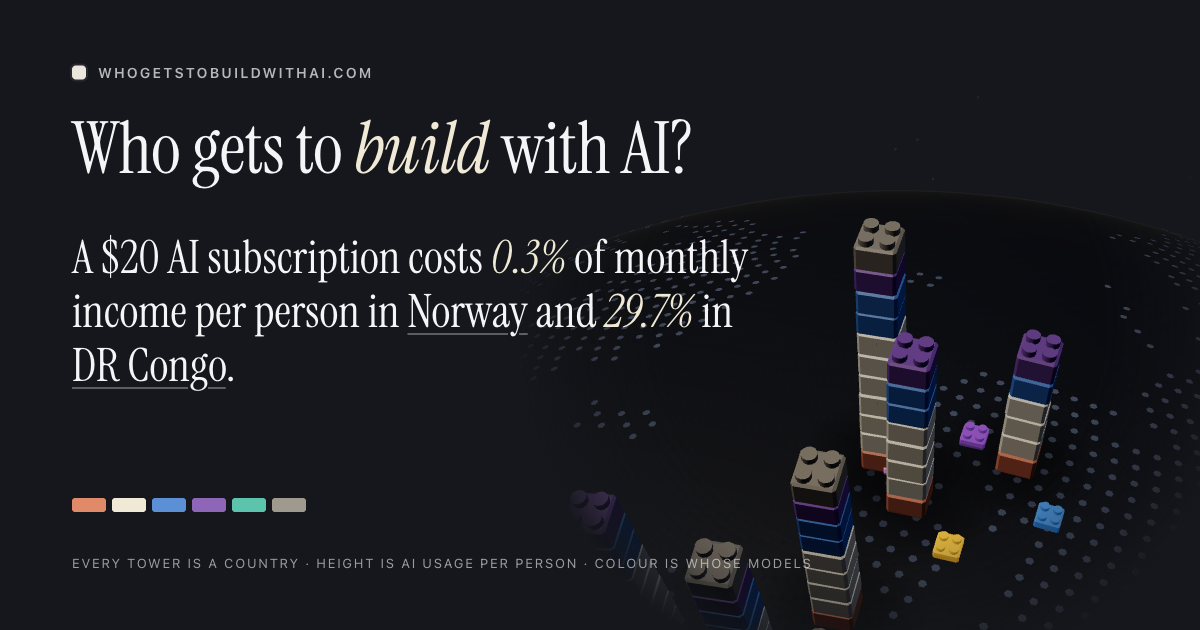
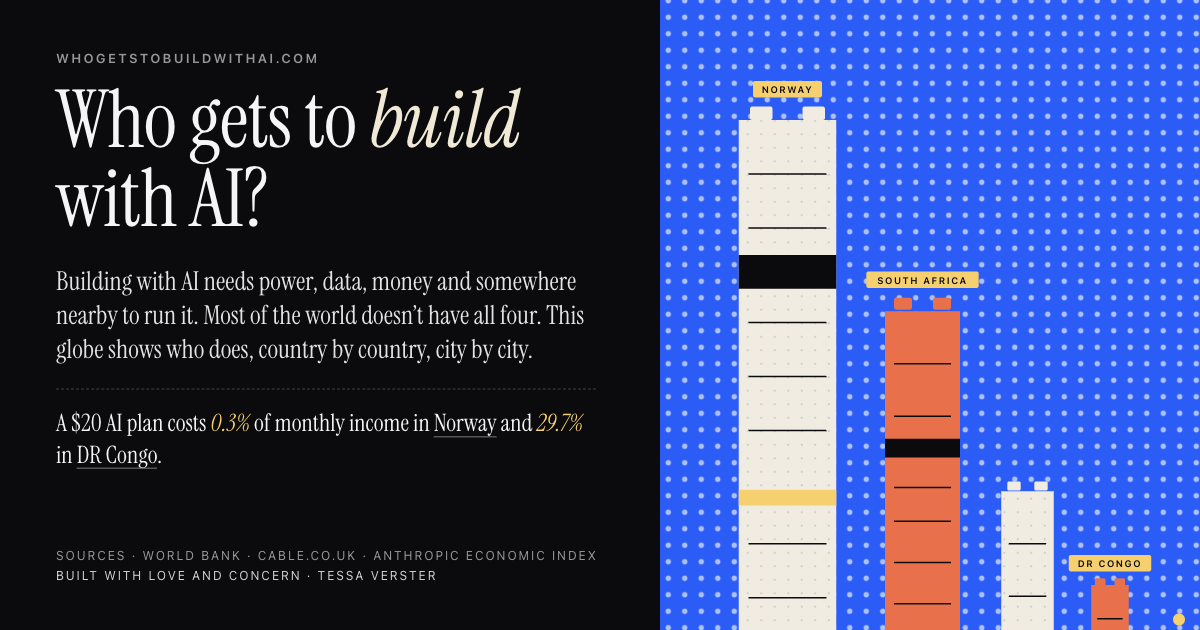
Redesign the intro modal, rebuild the share card from it, brighten the stars, nudge city towers aside
- Intro: two-column box, copy on the left (kicker, serif headline and body, yellow stat numbers, sentence-case CTA, sources + credit) and a flat illustration of the Norway / visitor's-country / DR Congo towers on a blue dot grid on the right (inline SVG #introArt; banner on phones). New copy throughout.
- og.png is now the same design; tools/render-og.mjs lifts the SVG out of index.html instead of screenshotting WebGL. Old thumbnail assets removed.
- Credit links (footer, panel note, intro byline) now point at Tessa's LinkedIn.
- Sky: stars in three sizes with four-point sparkles, bright enough to read.
- City towers that land on their country point (or on each other) slide sideways so they stand beside the tower instead of growing out of it.

diff --git a/styles.css b/styles.css
@@ -225,7 +225,7 @@
   #title h1,.ibox h2,.card .top h2,#v-card h2{font-family:var(--serif);font-weight:400;letter-spacing:-0.01em}
   #title h1 i,.ibox h2 i{font-style:italic;color:#efe9d6}
   .kicker,.byline{font-family:var(--sans);font-size:11px;letter-spacing:.14em;text-transform:uppercase;color:var(--muted)}
-  /* intro: a claim, one line of explanation, one call to action. Shown over #placeholder before the 3D scene is ready. */
+  /* intro: headline, the claim, how to read the globe, one call to action; a flat tower illustration beside it. Shown over #placeholder before the 3D scene is ready. */
   #placeholder{position:fixed;inset:0;z-index:1;pointer-events:none;background:var(--bg);transition:opacity .6s var(--ease)}
   #placeholder i{position:absolute;left:50%;top:50%;width:min(78vmin,760px);height:min(78vmin,760px);transform:translate(-50%,-50%);border-radius:50%;
     background:radial-gradient(circle,rgba(200,205,215,.26) 1.2px,transparent 1.9px) 0 0/12px 12px,#262a33;
@@ -235,32 +235,40 @@
   #intro{position:fixed;inset:0;z-index:20;display:flex;align-items:center;justify-content:center;overflow-y:auto;overscroll-behavior:contain;padding:12px 0;background:radial-gradient(ellipse at center,rgba(7,8,12,.55),rgba(7,8,12,.88));backdrop-filter:blur(2px);opacity:0;animation:introIn .6s var(--ease) .2s forwards;transition:opacity .4s var(--ease)}
   #intro.out{opacity:0!important;pointer-events:none}
   body.intro #title,body.intro #hint{opacity:0;transition:none}
-  .ibox{position:relative;max-width:980px;width:calc(100% - 48px);margin:auto;padding:34px 40px 26px;padding-right:calc(40px + 300px);border:1px solid rgba(255,255,255,.16);border-radius:10px;background:#0b0b0d;box-shadow:0 30px 80px rgba(0,0,0,.6);text-align:left;overflow:hidden}
-  /* a real view of the towers, from the exhibit (rendered by tools/render-og.mjs), bleeding off the right edge */
-  .ibox .thumb{position:absolute;right:-70px;top:-40px;width:420px;height:420px;margin:0;pointer-events:none;opacity:0;animation:rise .8s var(--ease) .5s forwards;-webkit-mask:radial-gradient(circle at 50% 50%,#000 0 40%,rgba(0,0,0,.6) 58%,transparent 70%);mask:radial-gradient(circle at 50% 50%,#000 0 40%,rgba(0,0,0,.6) 58%,transparent 70%)}
-  .ibox .thumb img{width:100%;height:100%;object-fit:cover;display:block}
-  .ibox h2{font-size:clamp(40px,5.6vw,68px);line-height:.98;opacity:0;animation:rise .6s var(--ease) .4s forwards;position:relative}
-  .ibox .hero{font-family:var(--sans);font-weight:500;font-size:clamp(20px,2.2vw,28px);line-height:1.25;letter-spacing:-0.015em;margin:20px 0 0;color:var(--text);overflow-wrap:anywhere;opacity:0;animation:rise .6s var(--ease) .7s forwards}
-  .ibox .hero b{font-weight:600;font-style:normal;color:#efe9d6}
+  /* the box: copy on the left, a flat illustration of three towers on a blue dot grid on the right (inline SVG #introArt, reused for og.png) */
+  .ibox{position:relative;max-width:1180px;width:calc(100% - 48px);margin:auto;display:grid;grid-template-columns:minmax(0,1.08fr) minmax(0,1fr);border:1px solid rgba(255,255,255,.16);border-radius:10px;background:#0b0b0d;box-shadow:0 30px 80px rgba(0,0,0,.6);text-align:left;overflow:hidden}
+  .ibox .copy{padding:44px 48px 34px;min-width:0}
+  .ibox .art{position:relative;background:#2b5cf6;min-height:460px;opacity:0;animation:introIn .8s var(--ease) .3s forwards}
+  .ibox .art svg{position:absolute;inset:0;width:100%;height:100%;display:block}
+  .ibox .kicker{margin-bottom:16px;opacity:0;animation:rise .5s var(--ease) .3s forwards}
+  .ibox h2{font-size:clamp(40px,5.2vw,74px);line-height:.98;opacity:0;animation:rise .6s var(--ease) .4s forwards;position:relative}
+  .ibox .lead{font-family:var(--serif);font-size:clamp(18px,1.55vw,23px);color:rgba(245,245,247,.92);line-height:1.35;margin:22px 0 0;max-width:560px;opacity:0;animation:rise .6s var(--ease) .8s forwards}
+  .ibox .lead.open{animation-delay:.55s}
+  .ibox .lead.outro{margin-top:14px;animation-delay:1s}
+  .ibox .hero{font-family:var(--serif);font-weight:400;font-size:clamp(19px,1.7vw,25px);line-height:1.3;letter-spacing:0;margin:18px 0 0;padding:18px 0;border-top:var(--rule);border-bottom:var(--rule);color:var(--text);overflow-wrap:anywhere;opacity:0;animation:rise .6s var(--ease) .7s forwards}
+  .ibox .hero b{font-weight:400;font-style:italic;color:#f6cf6f}
   .ibox .hero a{color:var(--text);text-decoration:underline;text-decoration-color:rgba(255,255,255,.35);text-underline-offset:3px;text-decoration-thickness:1.5px;transition:text-decoration-color .2s}
   .ibox .hero a:hover{text-decoration-color:var(--text)}
-  .ibox .hero .src{font-family:var(--sans);font-size:10px;letter-spacing:.14em;text-transform:uppercase;color:var(--muted);text-decoration:none;border:1px solid rgba(255,255,255,.2);border-radius:3px;padding:3px 7px;vertical-align:middle;margin-left:6px;white-space:nowrap}
-  .ibox .hero .src:hover{color:var(--text);border-color:rgba(255,255,255,.3)}
-  .ibox .lead{font-family:var(--sans);font-size:clamp(14px,1.2vw,16px);color:rgba(245,245,247,.68);line-height:1.4;margin:18px 0 22px;padding-top:18px;border-top:var(--rule);max-width:600px;opacity:0;animation:rise .6s var(--ease) 1s forwards}
-  .ibox .cta{display:flex;align-items:center;gap:14px;flex-wrap:wrap;opacity:0;animation:rise .5s var(--ease) 1.3s forwards}
-  #introGo{padding:12px 22px;font-size:12px;letter-spacing:.14em;text-transform:uppercase;font-weight:600;border-radius:4px;background:#efe9d6;color:#0b0b0d;border-color:#efe9d6}
+  .ibox .hero .src{display:inline;font-family:var(--sans);font-weight:400;font-size:.6em;color:var(--muted);text-decoration:underline;text-decoration-color:rgba(255,255,255,.3);text-underline-offset:3px;margin-left:4px;white-space:nowrap;vertical-align:baseline}
+  .ibox .hero .src:hover{color:var(--text);text-decoration-color:var(--text)}
+  .ibox .cta{display:flex;align-items:center;gap:18px;flex-wrap:wrap;margin-top:34px;opacity:0;animation:rise .5s var(--ease) 1.2s forwards}
+  #introGo{padding:14px 26px;font-size:15px;letter-spacing:0;text-transform:none;font-weight:600;border-radius:4px;background:#f0ece2;color:#0b0b0d;border-color:#f0ece2}
   #introGo:hover{background:#fff}
-  .btn.ghost{background:transparent;border:0;color:var(--muted);padding:11px 8px;font-size:12px;letter-spacing:.14em;text-transform:uppercase}
+  .btn.ghost{background:transparent;border:0;color:var(--muted);padding:11px 4px;font-size:15px;letter-spacing:0;text-transform:none}
   .btn.ghost:hover{color:var(--text);background:transparent}
-  .ibox .byline{display:flex;justify-content:space-between;gap:12px;flex-wrap:wrap;margin-top:24px;padding-top:12px;border-top:var(--rule);opacity:0;animation:rise .5s var(--ease) 1.5s forwards}
+  .ibox .byline{display:block;margin-top:28px;line-height:1.5;opacity:0;animation:rise .5s var(--ease) 1.4s forwards}
+  .ibox .byline span{display:block}
+  .ibox .byline span+span{margin-top:8px}
+  .ibox .byline a{color:var(--text);text-decoration:underline;text-decoration-color:rgba(255,255,255,.3);text-underline-offset:3px}
+  .ibox .byline a:hover{text-decoration-color:var(--text)}
   @keyframes introIn{to{opacity:1}}
   @keyframes shrink{to{transform:scaleX(0)}}
   @keyframes rise{from{opacity:0;transform:translateY(10px)}to{opacity:1;transform:none}}
-  @media (max-width:900px){ .ibox{padding-right:40px} .ibox .thumb{position:relative;right:auto;top:auto;width:calc(100% + 80px);height:170px;margin:-34px -40px 10px;-webkit-mask:linear-gradient(#000 55%,transparent);mask:linear-gradient(#000 55%,transparent)} .ibox .thumb img{object-position:50% 40%} }
-  @media (max-width:700px){ .ibox{padding:22px 22px 22px;width:calc(100% - 28px)} .ibox .thumb{width:calc(100% + 44px);margin:-22px -22px 8px;height:150px} .ibox .lead{margin:14px 0 20px;padding-top:14px} }
-  @media (max-width:380px){ .ibox{padding:18px 16px 18px;width:calc(100% - 20px)} .ibox h2{font-size:36px} .ibox .hero{font-size:20px} .ibox .cta{gap:6px} #introGo{padding:10px 16px} .ibox .byline span:last-child{display:none} }
-  @media (max-height:520px){ #intro{padding:8px 0} .ibox{width:calc(100% - 24px);padding:14px 22px 12px} .ibox .kicker{margin-bottom:10px;padding-bottom:8px} .ibox h2{font-size:30px} .ibox .hero{font-size:18px;margin-top:8px} .ibox .lead{font-size:14px;margin:8px 0 12px;padding-top:8px} .ibox .byline{margin-top:10px} }
-  @media (prefers-reduced-motion:reduce){ #intro,.ibox .kicker,.ibox h2,.ibox .hero,.ibox .lead,.ibox .cta,.ibox .byline{animation:none;opacity:1} .ibar{display:none} }
+  @media (max-width:900px){ .ibox{grid-template-columns:1fr} .ibox .art{order:-1;min-height:0;height:230px} .ibox .copy{padding:26px 28px 26px} .ibox .lead{font-size:18px} .ibox .hero{font-size:20px} }
+  @media (max-width:700px){ .ibox{width:calc(100% - 28px)} .ibox .copy{padding:22px 22px 22px} .ibox .art{height:200px} .ibox .lead{margin-top:14px} .ibox .hero{margin-top:14px;padding:14px 0} .ibox .cta{margin-top:24px} }
+  @media (max-width:380px){ .ibox{width:calc(100% - 20px)} .ibox .copy{padding:18px 16px 18px} .ibox h2{font-size:36px} .ibox .lead{font-size:17px} .ibox .hero{font-size:19px} .ibox .cta{gap:6px} #introGo{padding:11px 18px;font-size:14px} .btn.ghost{font-size:14px} }
+  @media (max-height:520px){ #intro{padding:8px 0} .ibox{width:calc(100% - 24px)} .ibox .copy{padding:14px 22px 12px} .ibox .art{min-height:0} .ibox .kicker{margin-bottom:8px} .ibox h2{font-size:30px} .ibox .hero{font-size:17px;margin-top:8px;padding:8px 0} .ibox .lead{font-size:16px;margin-top:8px} .ibox .cta{margin-top:14px} .ibox .byline{margin-top:10px} }
+  @media (prefers-reduced-motion:reduce){ #intro,.ibox .kicker,.ibox h2,.ibox .hero,.ibox .lead,.ibox .cta,.ibox .byline,.ibox .art{animation:none;opacity:1} .ibar{display:none} }
   /* tooltip */
   /* personalised strip at the top of the visitor's own country card; .est is the shared "modelled estimate" styling (methodology panel uses it too) */
   .card .mine{margin:0 0 14px;padding:12px 14px;border-radius:14px;background:var(--fill);border:1px solid var(--line);font-size:14px;line-height:1.45;color:var(--text)}

diff --git a/index.html b/index.html
@@ -17,7 +17,7 @@
 <meta property="og:image" content="https://whogetstobuildwithai.com/og.png">
 <meta property="og:image:width" content="1200">
 <meta property="og:image:height" content="630">
-<meta property="og:image:alt" content="Who gets to build with AI? The Norway tower on the Lego globe: a $20 AI subscription costs 0.3% of monthly income per person in Norway and 29.7% in DR Congo.">
+<meta property="og:image:alt" content="Who gets to build with AI? Building with AI needs power, data, money and somewhere nearby to run it. Most of the world doesn’t have all four. Towers for Norway, South Africa and DR Congo.">
 <meta name="twitter:card" content="summary_large_image">
 <meta name="twitter:title" content="Who gets to build with AI?">
 <meta name="twitter:description" content="A Lego globe of AI access. Every tower is a country: height is AI usage per person, colour is whose models people use.">
@@ -44,7 +44,7 @@
   <button id="tickerShow" title="Show counter (T)">Show prompt counter</button>
 </div>
 <div id="hint">drag to rotate · right-drag or shift-drag to move · scroll to zoom · click a tower or data centre</div>
-<footer id="credit">Built with love and concern · <a href="https://github.com/TessLeighVerster" target="_blank" rel="noopener">Tessa Verster<svg viewBox="0 0 16 16" aria-hidden="true"><path fill="currentColor" d="M8 0C3.58 0 0 3.58 0 8c0 3.54 2.29 6.53 5.47 7.59.4.07.55-.17.55-.38 0-.19-.01-.82-.01-1.49-2.01.37-2.53-.49-2.69-.94-.09-.23-.48-.94-.82-1.13-.28-.15-.68-.52-.01-.53.63-.01 1.08.58 1.23.82.72 1.21 1.87.87 2.33.66.07-.52.28-.87.51-1.07-1.78-.2-3.64-.89-3.64-3.95 0-.87.31-1.59.82-2.15-.08-.2-.36-1.02.08-2.12 0 0 .67-.21 2.2.82.64-.18 1.32-.27 2-.27.68 0 1.36.09 2 .27 1.53-1.04 2.2-.82 2.2-.82.44 1.1.16 1.92.08 2.12.51.56.82 1.27.82 2.15 0 3.07-1.87 3.75-3.65 3.95.29.25.54.73.54 1.48 0 1.07-.01 1.93-.01 2.2 0 .21.15.46.55.38A8.013 8.013 0 0 0 16 8c0-4.42-3.58-8-8-8z"/></svg></a></footer>
+<footer id="credit">Built with love and concern · <a href="https://www.linkedin.com/in/tessa-verster/" target="_blank" rel="noopener">Tessa Verster</a></footer>
 
 <div id="legend">
   <div><h4>Model provider</h4><ul id="lg-prov"></ul></div>
@@ -127,7 +127,7 @@
     <div class="ph"><span id="pinsTitle">Pinned · same scale</span><button id="clearPins">clear</button></div>
     <svg id="pinsvg" viewBox="0 0 380 170" preserveAspectRatio="xMidYMax meet"></svg>
   </div>
-  <div class="note">Figures are illustrative estimates modelled from public sources, not live telemetry.<span class="credit-sm"> Built with love and concern · <a href="https://github.com/TessLeighVerster" target="_blank" rel="noopener">Tessa Verster</a></span></div>
+  <div class="note">Figures are illustrative estimates modelled from public sources, not live telemetry.<span class="credit-sm"> Built with love and concern · <a href="https://www.linkedin.com/in/tessa-verster/" target="_blank" rel="noopener">Tessa Verster</a></span></div>
 </aside>
 
 <div id="arcLabels" aria-hidden="true"></div>
@@ -137,12 +137,42 @@
 
 <div id="intro" role="dialog" aria-label="Welcome">
   <div class="ibox">
-    <figure class="thumb" aria-hidden="true"><img src="assets/intro-towers.webp" width="720" height="720" alt="" loading="eager" decoding="async"></figure>
-    <h2>Who gets to <i>build</i> with AI?</h2>
-    <p class="hero" id="heroStat">A $20 AI subscription costs <b>0.3%</b> of monthly income per person in <a href="?country=NO" data-iso="NO">Norway</a> and <b>29.7%</b> in <a href="?country=CD" data-iso="CD">DR Congo</a>. <a class="src" id="heroSrc" href="?panel=methodology" title="How this is worked out">source</a></p>
-    <p class="lead">Every tower is a country. Height is how much people there use AI. Colour is whose models they're using. Glowing bricks are data centres.</p>
-    <div class="cta"><button class="btn primary" id="introGo">See where you stand →</button><button class="btn ghost" id="introExplore">or explore the globe</button></div>
-    <div class="byline"><span>Sources</span><span>World Bank · Cable.co.uk · Anthropic Economic Index</span></div>
+    <div class="copy">
+      <div class="kicker">whogetstobuildwithai.com</div>
+      <h2>Who gets to <i>build</i> with AI?</h2>
+      <p class="lead open">Building with AI needs power, data, money and somewhere nearby to run it. Most of the world doesn’t have all four. This globe shows who does, country by country, city by city.</p>
+      <p class="hero" id="heroStat">A $20 AI plan costs <b>0.3%</b> of monthly income in <a href="?country=NO" data-iso="NO">Norway</a> and <b>29.7%</b> in <a href="?country=CD" data-iso="CD">DR Congo</a>. <a class="src" id="heroSrc" href="?panel=methodology">How this is measured</a></p>
+      <p class="lead">Every tower is a country. Its height is how much people there use AI. Its colours are whose models they use. Glowing bricks are data centres.</p>
+      <p class="lead outro">Explore, be curious, ask questions, and share what you find.</p>
+      <div class="cta"><button class="btn primary" id="introGo">See where you stand →</button><button class="btn ghost" id="introExplore">or explore the globe</button></div>
+      <div class="byline"><span>Sources · World Bank · Cable.co.uk · Anthropic Economic Index</span><span>Built with love and concern · <a href="https://www.linkedin.com/in/tessa-verster/" target="_blank" rel="noopener">Tessa Verster</a></span></div>
+    </div>
+    <div class="art"><svg id="introArt" viewBox="0 0 720 850" preserveAspectRatio="xMidYMax slice" aria-hidden="true" focusable="false">
+      <defs>
+        <pattern id="iaDots" width="22" height="22" patternUnits="userSpaceOnUse"><circle cx="11" cy="11" r="3.6" fill="#fff" fill-opacity=".62"/></pattern>
+        <pattern id="iaGrain" width="18" height="18" patternUnits="userSpaceOnUse"><circle cx="9" cy="9" r="1.4" fill="#0b0b0d" fill-opacity=".14"/></pattern>
+      </defs>
+      <rect width="720" height="850" fill="#2b5cf6"/><rect width="720" height="850" fill="url(#iaDots)"/>
+      <g font-family="-apple-system,BlinkMacSystemFont,'Segoe UI',Inter,Roboto,Helvetica,Arial,sans-serif" font-size="12.5" font-weight="600" letter-spacing="2.2" fill="#0b0b0d">
+        <rect x="124" y="118" width="92" height="22" rx="3" fill="#f6cf6f"/><text x="170" y="134" text-anchor="middle">NORWAY</text>
+        <rect x="120" y="152" width="30" height="18" rx="3" fill="#f0ece2"/><rect x="190" y="152" width="30" height="18" rx="3" fill="#f0ece2"/>
+        <rect x="105" y="170" width="130" height="680" fill="#f0ece2"/><rect x="105" y="170" width="130" height="680" fill="url(#iaGrain)"/>
+        <path d="M118 242h104M118 314h104M118 440h104M118 512h104M118 584h104M118 735h104M118 807h104" stroke="#0b0b0d" stroke-width="2"/>
+        <rect x="105" y="350" width="130" height="45" fill="#0b0b0d"/><rect x="105" y="663" width="130" height="21" fill="#f6cf6f"/>
+        <rect id="introArtMidBg" x="275" y="372" width="150" height="22" rx="3" fill="#f6cf6f"/><text id="introArtMid" x="350" y="388" text-anchor="middle">SOUTH AFRICA</text>
+        <rect x="312" y="407" width="24" height="16" rx="3" fill="#e8714b"/><rect x="364" y="407" width="24" height="16" rx="3" fill="#e8714b"/>
+        <rect x="300" y="425" width="100" height="425" fill="#e8714b"/>
+        <path d="M312 495h76M312 565h76M312 660h76M312 705h76M312 760h76M312 815h76" stroke="#0b0b0d" stroke-width="2"/>
+        <rect x="300" y="595" width="100" height="25" fill="#0b0b0d"/>
+        <rect x="463" y="652" width="18" height="12" rx="2" fill="#f0ece2"/><rect x="499" y="652" width="18" height="12" rx="2" fill="#f0ece2"/>
+        <rect x="455" y="665" width="70" height="185" fill="#f0ece2"/><rect x="455" y="665" width="70" height="185" fill="url(#iaGrain)"/>
+        <path d="M465 735h50M465 805h50" stroke="#0b0b0d" stroke-width="2"/>
+        <rect x="545" y="750" width="110" height="22" rx="3" fill="#f6cf6f"/><text x="600" y="766" text-anchor="middle">DR CONGO</text>
+        <rect x="580" y="781" width="14" height="10" rx="2" fill="#e8714b"/><rect x="606" y="781" width="14" height="10" rx="2" fill="#e8714b"/>
+        <rect x="575" y="790" width="50" height="60" fill="#e8714b"/><path d="M583 835h34" stroke="#0b0b0d" stroke-width="2"/>
+        <circle cx="692" cy="836" r="8" fill="#f6cf6f"/>
+      </g>
+    </svg></div>
   </div>
 </div>
 

diff --git a/js/scene.js b/js/scene.js
@@ -153,13 +153,20 @@ const studTex = canvasTexture(512, (g, s) => { g.fillStyle = "#b4b4b4"; g.fillRe
     g.fillStyle = grd; g.beginPath(); g.arc(cx, cy, r, 0, Math.PI*2); g.fill(); } }, [48, 24]);
 const discTex = canvasTexture(64, (g, s) => { const grd = g.createRadialGradient(s/2, s/2, 0, s/2, s/2, s/2); grd.addColorStop(0, "rgba(255,255,255,1)"); grd.addColorStop(0.55, "rgba(255,255,255,0.55)"); grd.addColorStop(1, "rgba(255,255,255,0)"); g.fillStyle = grd; g.fillRect(0, 0, s, s); });
 
-/* sky: a sparse field of faint stars and a soft milky-way band, two Points draw calls, generated once with a seeded PRNG */
+/* sky: a field of stars in three sizes (the largest as four-point sparkles) and a soft milky-way band, five Points draw calls, generated once with a seeded PRNG */
 {
   const starTex = canvasTexture(32, (g, sz) => { const grd = g.createRadialGradient(sz/2, sz/2, 0, sz/2, sz/2, sz/2); grd.addColorStop(0, "rgba(255,255,255,1)"); grd.addColorStop(0.4, "rgba(255,255,255,0.55)"); grd.addColorStop(1, "rgba(255,255,255,0)"); g.fillStyle = grd; g.fillRect(0, 0, sz, sz); });
   starTex.wrapS = starTex.wrapT = THREE.ClampToEdgeWrapping;
+  /* four-point sparkle for the handful of bright stars: a soft core plus two thin tapered spikes */
+  const sparkTex = canvasTexture(128, (g, sz) => {
+    const c = sz/2, core = g.createRadialGradient(c, c, 0, c, c, c*0.22); core.addColorStop(0, "rgba(255,255,255,1)"); core.addColorStop(0.5, "rgba(255,255,255,0.6)"); core.addColorStop(1, "rgba(255,255,255,0)");
+    g.fillStyle = core; g.fillRect(0, 0, sz, sz);
+    for (const [x0,y0,x1,y1] of [[0,c,sz,c],[c,0,c,sz]]){ const lg = g.createLinearGradient(x0,y0,x1,y1); lg.addColorStop(0,"rgba(255,255,255,0)"); lg.addColorStop(0.3,"rgba(255,255,255,0.5)"); lg.addColorStop(0.5,"rgba(255,255,255,1)"); lg.addColorStop(0.7,"rgba(255,255,255,0.5)"); lg.addColorStop(1,"rgba(255,255,255,0)"); g.strokeStyle = lg; g.lineWidth = 3; g.beginPath(); g.moveTo(x0,y0); g.lineTo(x1,y1); g.stroke(); }
+  });
+  sparkTex.wrapS = sparkTex.wrapT = THREE.ClampToEdgeWrapping;
   let seed = 19; const rnd = () => (seed = (seed*48271)%2147483647)/2147483647;
   const gauss = () => (rnd()+rnd()+rnd()+rnd()-2)*0.86;
-  const field = (N, bandSigma, size, opacity, color) => {
+  const field = (N, bandSigma, size, opacity, color, map = starTex) => {
     const pos = new Float32Array(N*3), v = new THREE.Vector3(), tilt = new THREE.Quaternion().setFromEuler(new THREE.Euler(0.95, 0.3, 0.4));
     for (let i = 0; i < N; i++){
       if (bandSigma){ const a = rnd()*Math.PI*2, lat = gauss()*bandSigma; v.set(Math.cos(a)*Math.cos(lat), Math.sin(lat), Math.sin(a)*Math.cos(lat)).applyQuaternion(tilt); }
@@ -167,9 +174,11 @@ const discTex = canvasTexture(64, (g, s) => { const grd = g.createRadialGradient
       v.multiplyScalar(30 + rnd()*8); pos.set([v.x, v.y, v.z], i*3);
     }
     const g = new THREE.BufferGeometry(); g.setAttribute("position", new THREE.BufferAttribute(pos, 3));
-    const m = new THREE.Points(g, new THREE.PointsMaterial({color, size, sizeAttenuation:true, map:starTex, transparent:true, opacity, depthWrite:false})); m.frustumCulled = false; m.renderOrder = -1; return m;
+    const m = new THREE.Points(g, new THREE.PointsMaterial({color, size, sizeAttenuation:true, map, transparent:true, opacity, depthWrite:false})); m.frustumCulled = false; m.renderOrder = -1; return m;
   };
-  scene.add(field(1600, 0, 0.12, 0.38, 0xd8dde8));          // stars
+  scene.add(field(1800, 0, 0.4, 0.8, 0xe8ecf4));          // stars
+  scene.add(field(400, 0, 0.85, 0.85, 0xffffff));            // a few larger, brighter ones
+  scene.add(field(80, 0, 2.6, 0.85, 0xffffff, sparkTex));  // sparse four-point sparkles
   scene.add(field(5000, 0.16, 0.22, 0.09, 0xcfd6e6));       // the band: many faint, slightly larger points along a tilted great circle
   scene.add(field(900, 0.07, 0.10, 0.3, 0xe8e4d8));         // brighter core of the band
 }
@@ -546,6 +555,25 @@ function cityObjects(c){
     usageIndex: Math.round(c.usageIndex*rel*10)/10, activeUsers: pop*perCap*rel, providerShare:c.providerShare })).sort((a,b)=>b.usageIndex-a.usageIndex);
   return c._cityObjs;
 }
+/* a city that sits on its country's own point (a capital, a city state) would grow out of the middle of the country
+   tower; slide it sideways until it stands beside the tower, and beside any city tower already placed this round */
+const _nd = new THREE.Vector3(), _ne = new THREE.Vector3();
+function nudgeBeside(t, countryTower, placed){
+  const others = [countryTower, ...placed.map(city => city._tower).filter(Boolean)];
+  for (let pass = 0; pass < 4; pass++){
+    let moved = false;
+    for (const o of others){
+      if (!o) continue;
+      const minSep = (o.dims.w + CITY_BRICK.w) * 0.5 * 1.35;
+      _nd.subVectors(t.pos, o.pos); const d = _nd.length();
+      if (d >= minSep) continue;
+      if (d < 1e-5){ _ne.set(0,1,0); _nd.crossVectors(_ne, o.normal); if (_nd.lengthSq() < 1e-6) _nd.set(1,0,0); _nd.normalize(); }   // dead centre: step east
+      else { _nd.multiplyScalar(1/d); _nd.addScaledVector(o.normal, -_nd.dot(o.normal)).normalize(); }                                   // keep the step tangent to the plate
+      t.pos.copy(o.pos).addScaledVector(_nd, minSep).normalize().multiplyScalar(R); moved = true;
+    }
+    if (!moved) break;
+  }
+}
 function showCities(c){
   const now = performance.now(), list = c ? cityObjects(c).slice(0, CITY_SLOTS) : [];
   cityTowers.forEach((t,i) => {
@@ -553,7 +581,7 @@ function showCities(c){
     const city = list[i]; t.ref = city || null; t.cityOf = c || null;
     if (!city){ t.n = 0; return; }
     t.n = Math.max(1, Math.round(Math.min(120, city.usageIndex)/100*MAX_BRICKS));
-    latLonToVec(city.lat, city.lon, R, t.pos); t.normal.copy(t.pos).normalize(); t.quat.setFromUnitVectors(_cup, t.normal);
+    latLonToVec(city.lat, city.lon, R, t.pos); nudgeBeside(t, c._tower, list.slice(0, i)); t.normal.copy(t.pos).normalize(); t.quat.setFromUnitVectors(_cup, t.normal);
     const o = CITY_BRICK.w*0.25; [[-o,-o],[o,-o],[-o,o],[o,o]].forEach(([x,z],j) => t.studOffsets[j].copy(_ctmp.set(x,0,z).applyQuaternion(t.quat)));
     t.colors = brickColors(c, t.n); city._tower = t;
     t.colors.forEach((hex,k) => { const idx = t.brickStart+k; bricks.setColorAt(idx, _c.setHex(hex)); for (let j=0;j<4;j++) studs.setColorAt(idx*4+j, _c); });

diff --git a/tools/og-template.html b/tools/og-template.html
@@ -5,38 +5,38 @@
 <title>OG image template</title>
 <link rel="stylesheet" href="https://fonts.googleapis.com/css2?family=Instrument+Serif:ital@0;1&display=swap">
 <style>
-  /* 1200×630 link-preview card. Rendered to /og.png by tools/render-og.mjs; edit HERO_STAT in the script block below. */
-  html,body{margin:0;width:1200px;height:630px;overflow:hidden;background:#15171c;color:#f5f5f7;font-family:-apple-system,BlinkMacSystemFont,"Segoe UI",Inter,Roboto,Helvetica,Arial,sans-serif;-webkit-font-smoothing:antialiased}
-  #card{position:relative;width:1200px;height:630px}
-  #tower{position:absolute;right:-40px;top:-40px;width:720px;height:720px;-webkit-mask:radial-gradient(circle at 50% 50%,#000 0 44%,rgba(0,0,0,.6) 60%,transparent 72%);mask:radial-gradient(circle at 50% 50%,#000 0 44%,rgba(0,0,0,.6) 60%,transparent 72%)}
-  #tower img{width:100%;height:100%;object-fit:cover;display:block}
-  .wordmark{position:absolute;left:72px;top:64px;font-size:14px;font-weight:600;letter-spacing:.16em;text-transform:uppercase;color:rgba(245,245,247,.72);display:flex;align-items:center;gap:12px}
-  .wordmark i{display:inline-block;width:14px;height:14px;border-radius:4px;background:#ece7dc;box-shadow:0 0 0 2px rgba(255,255,255,.08)}
-  .title{position:absolute;left:72px;top:112px;font-family:"Instrument Serif",Georgia,serif;font-size:72px;font-weight:400;letter-spacing:-.01em;line-height:1}
+  /* 1200×630 link-preview card, the same design as the intro modal. Rendered to /og.png by tools/render-og.mjs, which injects
+     the #introArt SVG from index.html into .art so the illustration is never duplicated. */
+  html,body{margin:0;width:1200px;height:630px;overflow:hidden;background:#0b0b0d;color:#f5f5f7;font-family:-apple-system,BlinkMacSystemFont,"Segoe UI",Inter,Roboto,Helvetica,Arial,sans-serif;-webkit-font-smoothing:antialiased}
+  #card{position:relative;width:1200px;height:630px;display:grid;grid-template-columns:660px 540px}
+  .copy{position:relative;padding:50px 56px 0}
+  .kicker{font-size:13px;font-weight:600;letter-spacing:.18em;text-transform:uppercase;color:rgba(245,245,247,.6)}
+  .title{font-family:"Instrument Serif",Georgia,serif;font-size:80px;font-weight:400;letter-spacing:-.01em;line-height:.98;margin-top:16px}
   .title i{color:#efe9d6}
-  .stat{position:absolute;left:72px;top:230px;width:700px;font-family:"Instrument Serif",Georgia,serif;font-size:46px;font-weight:400;letter-spacing:0;line-height:1.18;color:#f5f5f7}
-  .stat b{font-weight:400;font-style:italic;color:#efe9d6}
-  .stat em{font-style:normal;text-decoration:underline;text-decoration-color:rgba(255,255,255,.3);text-underline-offset:6px;text-decoration-thickness:2px}
-  .foot{position:absolute;left:72px;bottom:60px;font-size:13px;letter-spacing:.14em;text-transform:uppercase;color:rgba(245,245,247,.6);display:flex;gap:28px;align-items:center}
-  .foot .url{color:#f5f5f7;font-weight:600}
-  .bricks{position:absolute;left:72px;bottom:118px;display:flex;gap:6px}
-  .bricks i{display:block;width:34px;height:14px;border-radius:3px}
+  .lead{font-family:"Instrument Serif",Georgia,serif;font-size:26px;line-height:1.32;margin-top:26px;max-width:540px;color:rgba(245,245,247,.92)}
+  .stat{font-family:"Instrument Serif",Georgia,serif;font-size:24px;line-height:1.3;margin-top:22px;padding-top:18px;border-top:1px dashed rgba(255,255,255,.22);max-width:540px}
+  .stat b{font-weight:400;font-style:italic;color:#f6cf6f}
+  .stat em{font-style:normal;text-decoration:underline;text-decoration-color:rgba(255,255,255,.3);text-underline-offset:5px;text-decoration-thickness:1.5px}
+  .foot{position:absolute;left:56px;bottom:44px;font-size:12px;letter-spacing:.16em;text-transform:uppercase;color:rgba(245,245,247,.6);line-height:1.7}
+  .foot b{display:block;font-weight:400;color:rgba(245,245,247,.85)}
+  .art{position:relative;background:#2b5cf6}
+  .art svg{position:absolute;inset:0;width:100%;height:100%;display:block}
 </style>
 </head>
 <body>
 <div id="card">
-  <!-- faint dot-grid globe silhouette: inline SVG, a circle filled with a dot pattern and a soft rim -->
-  <!-- a real view of the Norway tower, rendered from the exhibit by tools/render-og.mjs (og-tower.png), masked softly into the card -->
-  <div id="tower"><img src="og-tower.png" alt=""></div>
-  <div class="wordmark"><i></i>whogetstobuildwithai.com</div>
-  <div class="title">Who gets to <i>build</i> with AI?</div>
-  <div class="stat" id="stat"></div>
-  <div class="bricks"><i style="background:#e08a6a"></i><i style="background:#efe9d6"></i><i style="background:#5b8fd6"></i><i style="background:#8e66b8"></i><i style="background:#5cc4ad"></i><i style="background:#a09a8e"></i></div>
-  <div class="foot"><span>Every tower is a country · height is AI usage per person · colour is whose models</span></div>
+  <div class="copy">
+    <div class="kicker">whogetstobuildwithai.com</div>
+    <div class="title">Who gets to <i>build</i> with AI?</div>
+    <div class="lead">Building with AI needs power, data, money and somewhere nearby to run it. Most of the world doesn’t have all four. This globe shows who does, country by country, city by city.</div>
+    <div class="stat" id="stat"></div>
+    <div class="foot">Sources · World Bank · Cable.co.uk · Anthropic Economic Index<b>Built with love and concern · Tessa Verster</b></div>
+  </div>
+  <div class="art" id="art"></div>
 </div>
 <script>
   // From data/countries.js (subscriptionShareOfIncome, derived from World Bank GDP per capita); keep in step with HERO_STAT in js/main.js.
-  const HERO_STAT = "A $20 AI subscription costs <b>0.3%</b> of monthly income per person in <em>Norway</em> and <b>29.7%</b> in <em>DR Congo</em>.";
+  const HERO_STAT = "A $20 AI plan costs <b>0.3%</b> of monthly income in <em>Norway</em> and <b>29.7%</b> in <em>DR Congo</em>.";
   document.getElementById("stat").innerHTML = HERO_STAT;
 </script>
 </body>

diff --git a/js/intro.js b/js/intro.js
@@ -27,7 +27,14 @@ function dismiss(action){
   if (action) emit(action);
 }
 function emit(action){ pending = action; listeners.forEach(fn => fn()); }
-function startTimer(){}   // no auto-dismiss: the overlay stays until the visitor picks a country, explores, or presses Escape
+function startTimer(){}
+/* the illustration's middle tower carries the visitor's country name (Norway and DR Congo already have their own towers) */
+function labelMiddleTower(iso){
+  if (iso === "NO" || iso === "CD") return;
+  const t = $("#introArtMid"), bg = $("#introArtMidBg"); if (!t || !bg) return;
+  t.textContent = COUNTRY_NAMES[iso].toUpperCase();
+  try { const b = t.getBBox(); bg.setAttribute("x", (b.x - 11).toFixed(1)); bg.setAttribute("width", (b.width + 22).toFixed(1)); } catch (_) {}
+}   // no auto-dismiss: the overlay stays until the visitor picks a country, explores, or presses Escape
 
 const seen = (() => { try { return sessionStorage.getItem("introSeen") === "1"; } catch (_) { return false; } })();
 const skip = params.get("intro") === "0" || params.has("nointro") || params.has("country") || (params.get("intro") !== "1" && seen);   // a deep link goes straight to its country
@@ -42,7 +49,7 @@ $("#heroStat").addEventListener("click", e => {
 // beat 3: the call to action names the visitor's own country when the time zone or browser language gives one away
 const iso = detectCountry(new Set(Object.keys(COUNTRY_NAMES)));
 intro.countryIso = iso;
-if (iso){ go.textContent = `See ${COUNTRY_NAMES[iso]} →`; go.addEventListener("click", () => dismiss({ select: iso })); }
+if (iso){ go.textContent = `See ${COUNTRY_NAMES[iso]} →`; go.addEventListener("click", () => dismiss({ select: iso })); labelMiddleTower(iso); }
 else { go.textContent = "See where you stand →"; go.addEventListener("click", () => dismiss({ search: true })); }
 $("#introExplore").addEventListener("click", () => dismiss());
 el.addEventListener("click", e => { if (e.target === el) dismiss(); });

diff --git a/js/main.js b/js/main.js
@@ -14,7 +14,7 @@ const reduceMotion = window.matchMedia("(prefers-reduced-motion: reduce)").match
    the data (subscriptionShareOfIncome: a US$20/month plan as a share of GDP per capita per month, see data/countries.js). */
 export const HERO_STAT = {
   a: "NO", b: "CD",
-  text: (a, b) => `A $20 AI subscription costs <b>${a.subscriptionShareOfIncome}%</b> of monthly income per person in ${link(a)} and <b>${b.subscriptionShareOfIncome}%</b> in ${link(b)}.`
+  text: (a, b) => `A $20 AI plan costs <b>${a.subscriptionShareOfIncome}%</b> of monthly income in ${link(a)} and <b>${b.subscriptionShareOfIncome}%</b> in ${link(b)}.`
 };
 const link = c => `<a href="?country=${c.iso}" data-iso="${c.iso}">${c.name}</a>`;
 

diff --git a/CLAUDE.md b/CLAUDE.md
@@ -8,8 +8,8 @@ Static, no-build exhibit deployed by GitHub Pages from `main` (custom domain in 
 
 ## 2. 3D rendering and the camera
 - `js/scene.js` owns everything Three.js: renderer, scene, `camera` (PerspectiveCamera, fov 38) and the `world` group that rotates.
-- Look: a hand-built tabletop model. Baseplate = blue-charcoal sphere (`plateMat`, #434957) with a 512² canvas stud texture as roughness + faint bump; land = one InstancedMesh of 12,000 flat hexagonal discs (`landDots`, positions from `LAND_MASK`, 2° cells) whose colour skins the data layers (`LAYERS`, `setLayer` → `applySkin`) swap with setColorAt on toggle only; background clear colour `#22252d`, a faint star field with a milky-way band (three Points draw calls), a faint warm rim shader. Lighting: a soft warm key directional (0.8) + a faint cool counter-light + ambient (0.42) + a bright hemisphere (sky #c9d2e2 / ground #7a7984), exposure 1.12, no shadows, no post-processing. Keep it soft: a single strong key leaves brick sides black and reads as ominous.
-- Towers: discrete 2×2 bricks, one instance each (`BRICKS_PER_INDEX_POINT` = MAX_BRICKS/100), chamfered geometry from `chamferBox()` (44 triangles), `brickMat` MeshStandardMaterial roughness 0.45 with a 256² noise roughnessMap on the high tier. Two InstancedMeshes (`bricks`, `studs`) shared by countries, continents and six city slots (`towers`, `cityTowers`); `writeTower` applies seeded per-brick jitter (rotation ±0.6°, offset ±1.5%, cumulative lean ≤1°, 1-in-40 proud) and `paintTower` the ±3% L / ±2% S colour variance; `stepTowers` animates with `easePlastic` (4% overshoot). `contact` is an InstancedMesh of soft dark discs under towers (fake contact shadow; spare instances reserved for arc caps). Data centres: InstancedMesh `dcMesh` (chamfered 2×2 brick) plus `dcStuds` (4 studs each) with `dcMat` (emissive 0.3 from the instance colour). Arcs: `js/arcs.js` (`createArcs`) draws each route as a solid plastic tube: a Line2 from the vendored fat-line addons (`js/vendor/three-fatlines.js`, global-THREE build of three r160's examples/jsm/lines) in the operator colour at 3 px desktop / 4 px phone (`worldUnits:false`, resolution set in `resize()`), over a black outline Line2 and under a dashed seam whose `dashOffset` moves once per frame (frozen for reduced motion and on the low tier); end caps are spare `contact` instances tinted to the operator. Curve maths is pure in `js/arcMath.js` (`arcPoints`, tested by `tools/arcs.test.mjs`). Draw-in 400 ms via `instanceCount`, fade-out 180 ms, hover on a data-centre brick highlights its arc (`arcsCtl.highlight`, fine pointers). HTML labels in `#arcLabels` ride on the far end of each arc (operator · city · why, or the country name) with an italic caption at the start; hidden behind the horizon and under the panel/sheet. The thin off-white selection `ring` completes the scene.
+- Look: a hand-built tabletop model. Baseplate = blue-charcoal sphere (`plateMat`, #434957) with a 512² canvas stud texture as roughness + faint bump; land = one InstancedMesh of 12,000 flat hexagonal discs (`landDots`, positions from `LAND_MASK`, 2° cells) whose colour skins the data layers (`LAYERS`, `setLayer` → `applySkin`) swap with setColorAt on toggle only; background clear colour `#22252d`, a star field in three sizes, the largest four-point sparkles (`sparkTex`), with a milky-way band (five Points draw calls), a faint warm rim shader. Lighting: a soft warm key directional (0.8) + a faint cool counter-light + ambient (0.42) + a bright hemisphere (sky #c9d2e2 / ground #7a7984), exposure 1.12, no shadows, no post-processing. Keep it soft: a single strong key leaves brick sides black and reads as ominous.
+- Towers: discrete 2×2 bricks, one instance each (a city tower that lands on its country point or on another city tower is slid sideways by `nudgeBeside` so it stands beside it) (`BRICKS_PER_INDEX_POINT` = MAX_BRICKS/100), chamfered geometry from `chamferBox()` (44 triangles), `brickMat` MeshStandardMaterial roughness 0.45 with a 256² noise roughnessMap on the high tier. Two InstancedMeshes (`bricks`, `studs`) shared by countries, continents and six city slots (`towers`, `cityTowers`); `writeTower` applies seeded per-brick jitter (rotation ±0.6°, offset ±1.5%, cumulative lean ≤1°, 1-in-40 proud) and `paintTower` the ±3% L / ±2% S colour variance; `stepTowers` animates with `easePlastic` (4% overshoot). `contact` is an InstancedMesh of soft dark discs under towers (fake contact shadow; spare instances reserved for arc caps). Data centres: InstancedMesh `dcMesh` (chamfered 2×2 brick) plus `dcStuds` (4 studs each) with `dcMat` (emissive 0.3 from the instance colour). Arcs: `js/arcs.js` (`createArcs`) draws each route as a solid plastic tube: a Line2 from the vendored fat-line addons (`js/vendor/three-fatlines.js`, global-THREE build of three r160's examples/jsm/lines) in the operator colour at 3 px desktop / 4 px phone (`worldUnits:false`, resolution set in `resize()`), over a black outline Line2 and under a dashed seam whose `dashOffset` moves once per frame (frozen for reduced motion and on the low tier); end caps are spare `contact` instances tinted to the operator. Curve maths is pure in `js/arcMath.js` (`arcPoints`, tested by `tools/arcs.test.mjs`). Draw-in 400 ms via `instanceCount`, fade-out 180 ms, hover on a data-centre brick highlights its arc (`arcsCtl.highlight`, fine pointers). HTML labels in `#arcLabels` ride on the far end of each arc (operator · city · why, or the country name) with an italic caption at the start; hidden behind the horizon and under the panel/sheet. The thin off-white selection `ring` completes the scene.
 - Quality tiers: `quality.tier` "high"/"low" chosen at boot in scene.js (phone-like viewport, ≤4 cores, or `?quality=`), and `js/main.js` drops to "low" if the first 60 frames average under 50 fps; `setQuality()` removes the roughness/bump maps and flat-shades the bricks. Picking code is untouched by any of this (jitter is baked into the instance matrices it reads).
 - Tools: `tools/perf-profile.mjs` (4x CPU, 390×844, draw calls / triangles / textures per scenario), `tools/view-shots.mjs` (default / Europe / Africa at desktop and phone, `--quality=`), `tools/palette-check.mjs` (ΔE incl. deuteranopia). `tools/arc-shots.mjs` (ZA and US selected, desktop/phone), `tools/arc-contrast.mjs` (operator colours vs plate/discs/bricks). All need `?debug` (sets `window.__exhibit`).
 - Camera: `view` (in `js/state.js`) holds yaw/pitch/dist/pan and their targets; `applyView()` writes them to the world quaternion and camera position each frame; `resize()` uses `camera.setViewOffset` to centre the globe beside the side panel or above the open bottom sheet; `flyTo(ref, dist, towerLen)` targets a tower; `zoomAt`, `panBy`, `resetView` are the other movers. The frame loop in `js/main.js` eases `view` towards its targets and auto-rotates after 3 s idle.
@@ -23,7 +23,7 @@ Static, no-build exhibit deployed by GitHub Pages from `main` (custom domain in 
 - `js/colors.js`: `PROVIDER_COLOR`, `OPERATOR_COLOR`, `CONTINENT_COLOR` and `CSS_TOKENS`, a mirror of the `:root` tokens in `styles.css` (styles.css is the source of truth).
 
 ## 4. Intro overlay and side panel
-- Intro: `#intro` markup in `index.html` (styles under `#intro`, `.ibox`, `#placeholder` in `styles.css`). Three beats: headline + `HERO_STAT` (constant in `js/main.js`; the two country names are links that open that country), one line of explanation, a CTA "See {Country} →" that opens the detected country's card (fallback "See where you stand →" focuses search) and "or explore the globe".
+- Intro: `#intro` markup in `index.html` (styles under `#intro`, `.ibox`, `#placeholder` in `styles.css`). Beats: headline, an opening paragraph (`.lead.open`), `HERO_STAT` (constant in `js/main.js`; the two country names are links that open that country, followed by the inline "How this is measured" link `#heroSrc`), one line of explanation, an "Explore, be curious" line (`.lead.outro`), a CTA "See {Country} →" that opens the detected country's card (fallback "See where you stand →" focuses search) and "or explore the globe".
 - `js/intro.js` wires the overlay as an `async` module that depends only on `js/geo.js` (time zone → ISO2 table, then `navigator.language` region; `GEO_OVERRIDE_URL` is the hook for a future `/api/geo`) and `data/countryNames.js`, so it is interactive at ~0.7 s on Slow 4G + 4x CPU; it then starts the Three.js download (`threeReady`) and `js/main.js` awaits it before importing scene.js/panel.js. Actions chosen before the scene exists are queued (`intro.pending`) and run on the first rendered frame, which also adds `body.ready` (fades `#placeholder`, the static dot-grid globe) (there is no auto-dismiss: the overlay waits for a choice or Escape). `sessionStorage.introSeen` skips it on later loads in the session; `?intro=1` forces, `?intro=0` / `?nointro` skip. The source marker sets `?panel=methodology` and dispatches an `open-panel` event (methodology panel still to build). `prefers-reduced-motion` turns off auto-rotate and the intro animations.
 - `tools/intro-perf.mjs` measures intro interactivity on the throttled profile; `tools/shots.mjs` takes desktop + phone screenshots.
 - Controls: `#controls` has Continents, the layer segment, a Routes toggle (arcs on/off, `R`, persisted in localStorage) and sound. `#siteShare` (top right, fixed) shares the page or the selected country's deep link via navigator.share, else copies the link. The prompt counter is hidden by default (`body.noticker`, "Show prompt counter" toggles it). Legend provider entries (`li[data-prov]`) filter: the top 10 countries by that provider's share stay up, the rest drop to one brick, and the Usage list re-sorts (`setProviderFilter`). While a country or data centre is selected, unrelated towers drop to one brick (`keepUp`/`LOWERED_BRICKS` in scene.js) and unrelated data-centre bricks dim (`setDCFocus`).
@@ -31,7 +31,7 @@ Static, no-build exhibit deployed by GitHub Pages from `main` (custom domain in 
 
 ## 5. Head metadata
 - `index.html` head: charset, viewport (no user zoom), mobile-web-app metas, `<title>` "Who gets to build with AI?", description (<155 chars), canonical, `og:*` and `twitter:*` tags pointing at `https://whogetstobuildwithai.com/og.png` (1200×630), favicons, `site.webmanifest`, `theme-color`.
-- `og.png` is rendered from `tools/og-template.html` by `tools/render-og.mjs` (plain HTML + inline SVG, no WebGL); the hero stat is the `HERO_STAT` constant in the template (placeholder, marked TODO).
+- `og.png` is rendered from `tools/og-template.html` by `tools/render-og.mjs` (plain HTML, no WebGL): the same design as the intro modal, and the renderer lifts the `#introArt` SVG out of index.html so the two never drift. The hero stat is the `HERO_STAT` constant in the template; keep it in step with js/main.js. Re-run after any change to the modal copy or illustration.
 
 ## 6. Routing and URL state
 - `js/urlState.js`: `?country={iso}`, `?tab=`, `?layer=` are read on load (`applyUrlState()` in `js/main.js`, after the first frame) and written with `history.replaceState` from `select()`, `showTab()` and `setLayer()`; defaults are removed. `?country` also skips the intro. Other inputs: `?intro=0|1`, `?nointro` (js/intro.js), `?panel=methodology` (source marker; panel not built yet). `keyCollapsed` (localStorage) and `introSeen` (sessionStorage) are the only persisted bits.
@@ -39,7 +39,7 @@ Static, no-build exhibit deployed by GitHub Pages from `main` (custom domain in 
 
 ## 7. Styling
 - Tokens on `:root` in `styles.css`: `--bg #1e2129`, `--panel`, `--line`, `--fill`, `--text #f5f5f7`, `--muted`, `--accent` (monochrome; no yellow accent), `--ease`, `--panel-w 420px`, plus `--c-*` provider and `--o-*` operator colours, which mirror the ABS-plastic palette in `js/colors.js` (off-white #ece7dc for OpenAI, desaturated hues, warm grey for Local; weakest deuteranopia pair ΔE ≈ 12).
-- Type: editorial pairing after every.to. Big titles (`#title h1`, intro `h2`, card `h2`) in Instrument Serif (Google Fonts, `--serif`, italic emphasis on one word); the intro's hero stat and lead paragraph are system sans (`--sans`, numbers semibold cream); labels/kickers/bylines in small tracked uppercase system sans (`--sans`), dashed rules (`--rule`). The intro box is near-black (#0b0b0d), square-cornered (10px), with a towers thumbnail (`assets/intro-towers.webp`, written by tools/render-og.mjs; right-bleed on desktop, banner on phones), dashed rules, cream CTA and a sources byline. Everything else stays on the system sans stack. Panels are frosted glass (`backdrop-filter: var(--glass)`), 18px radii, 1px `--line` borders. Phone layout (`max-width:900px portrait` or `max-width:600px`) turns the panel into a bottom sheet.
+- Type: editorial pairing after every.to. Big titles (`#title h1`, intro `h2`, card `h2`) in Instrument Serif (Google Fonts, `--serif`, italic emphasis on one word); labels/kickers/bylines in small tracked uppercase system sans (`--sans`), dashed rules (`--rule`). The intro box is near-black (#0b0b0d), square-cornered (10px), a two-column grid: copy on the left (kicker, serif headline, serif body copy with yellow #f6cf6f stat numbers, dashed rules, cream sentence-case CTA, sources and credit byline), and on the right the flat tower illustration `#introArt` (inline SVG: blue #2b5cf6 dot grid, cream/coral/black bricks, yellow label tags; js/intro.js relabels the middle tower with the visitor's country). On phones the illustration is a banner above the copy. Everything else stays on the system sans stack. Panels are frosted glass (`backdrop-filter: var(--glass)`), 18px radii, 1px `--line` borders. Phone layout (`max-width:900px portrait` or `max-width:600px`) turns the panel into a bottom sheet.
 
 ## Testing
 - `NODE_PATH=<dir with puppeteer> node tools/behaviour-check.js out.json [baseline.json]` snapshots the UI (intro, ZA card values, tabs, layers, resetView, `?nointro`) and diffs against a baseline. Use it before and after any refactor.
